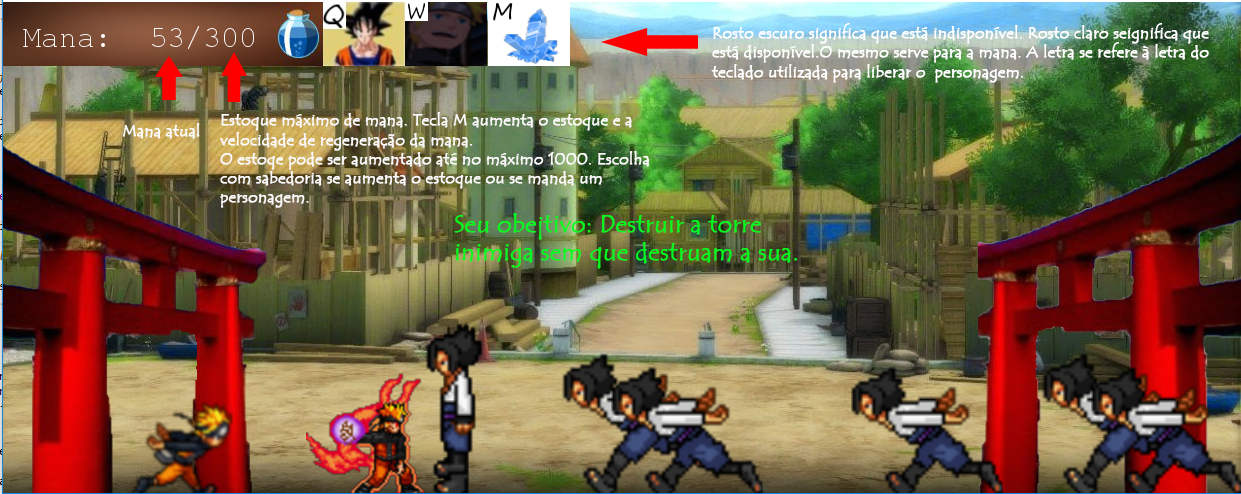
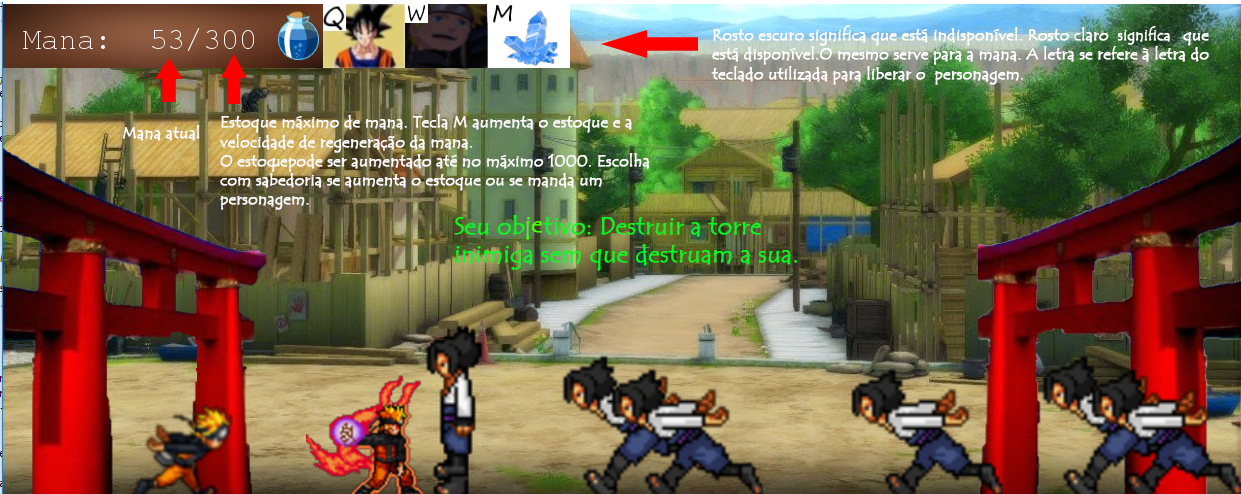
Fernando
Coloquei um "tempo" entre o boss e a próxima wave. Também arrumei a gramática do tutorial

diff --git a/Projeto_Final.py b/Projeto_Final.py
@@ -106,6 +106,8 @@ def acao(grupo_amigo, grupo_inimigo,pontuacao):
                         pontuacao['pontos']+=200
                     elif personagem.tipo=='Boss':
                         pontuacao['pontos']+=2000
+                        
+                        
         else:
              if personagem!=torre and personagem!=torre2:
                 if personagem.tipo=='Goku':
@@ -127,7 +129,7 @@ def acao(grupo_amigo, grupo_inimigo,pontuacao):
                     personagem.move(4)
                 elif personagem.tipo=='Boss':
                     personagem.altera_boneco(['boss1.png','boss2.png','boss3.png','boss4.png'])
-                    personagem.move(-30)
+                    personagem.move(-1)
 # classe do botão retirada de: http://www.dreamincode.net/forums/topic/401541-buttons-and-sliders-in-pygame/
 cor_fundo = (255, 235, 215)
 cor_letra = (0,0,0)
@@ -176,7 +178,8 @@ tela_intro=pygame.image.load("start tela.png").convert()
 start = Botao("Start",(1238/2, 150))
 tela_tutorial = pygame.image.load("TelaTuto.png").convert()
 tutorial = Botao("Tutorial",(1238/2, 400))
-fonte = myfont = pygame.font.SysFont("monospace", 30)
+fonte =  pygame.font.SysFont("monospace", 30)
+fonte_score = pygame.font.SysFont("monospace", 30)
 rodando = True
 intro = True
 pré_jogo = True
@@ -241,6 +244,7 @@ contador_update_dos_inimigos=0
 contador4=0
 contador_boss=0
 valor_da_mana=50
+contador_final = 1
 wave = 0
 while rodando:
     if mana<=mana_max:
@@ -298,27 +302,32 @@ while rodando:
 
     #Wave 
     x = random.randint(0,100)
-    if x > 65 and x < 75:
+    if x > 60 and x < 75:
         if contador_inimigo == 4:
             Sasuke=Boneco(['sasuke1.png','sasuke2.png','sasuke3.png'],1100,300,'Sasuke',157,200)
             Sasuke.vida=2000
             inimigo_group.add(Sasuke)
-    elif x > 10 and x < 40:
+    elif x > 35 and x < 40:
         if contador_inimigo == 4:
             Ed=Boneco(['af1.png','af2.png','af3.png','af4.png','af5.png','af6.png'],1100,300,'Ed',239,200)
             Ed.vida=1000
             inimigo_group.add(Ed)
-    if contador_boss==100:
+    if contador_boss==200:
         Boss=Boneco(['boss1.png','boss2.png','boss3.png','boss4.png'],1100,250,'Boss',250,259)
-        Boss.vida=20000
+        Boss.vida=1000
         inimigo_group.add(Boss)
-        wave=100
-
-    if contador_inimigo == 15:
+        contador_final=100
+        
+    if contador_final == 100:
         contador_inimigo = 0
-        wave += 1
-    if wave == 100:
+    if contador_boss==500:
+       contador_final = 0
+       contador_boss = 0
+    if contador_inimigo == 10:
         contador_inimigo = 0
+        contador_final += 1
+    
+     
 # printar o contador de mana https://stackoverflow.com/questions/19733226/python-pygame-how-to-make-my-score-text-update-itself-forever   
     manatexto = fonte.render("Mana: {0}/{1}".format(int(mana),mana_max), 7, (250,250,250))
     quadro=pygame.image.load('quadro.jpg')
@@ -362,6 +371,10 @@ while rodando:
             todos_amigos=pygame.sprite.Group()
             tela.blit(fundo,(0,0))
             pygame.mixer.music.stop()
+            scores = fonte_score.render("Score: {0}".format(pontuacao['pontos']), 7, (250,250,250))
+            recordes= fonte_score.render("Highscore: {0}".format(recorde), 7, (250,250,250))
+            tela.blit(scores,(1100/2,50))
+            tela.blit(recordes,(1100/2,100))
             if (event.type==pygame.KEYDOWN):
                 if event.key==K_ESCAPE:
                     rodando=False
@@ -369,6 +382,7 @@ while rodando:
                     True
     fim(torre,"gameover.jpg")
     fim(torre2,"youwin.jpg")
+    
    
     pygame.display.flip()
 if recorde<pontuacao['pontos']:
